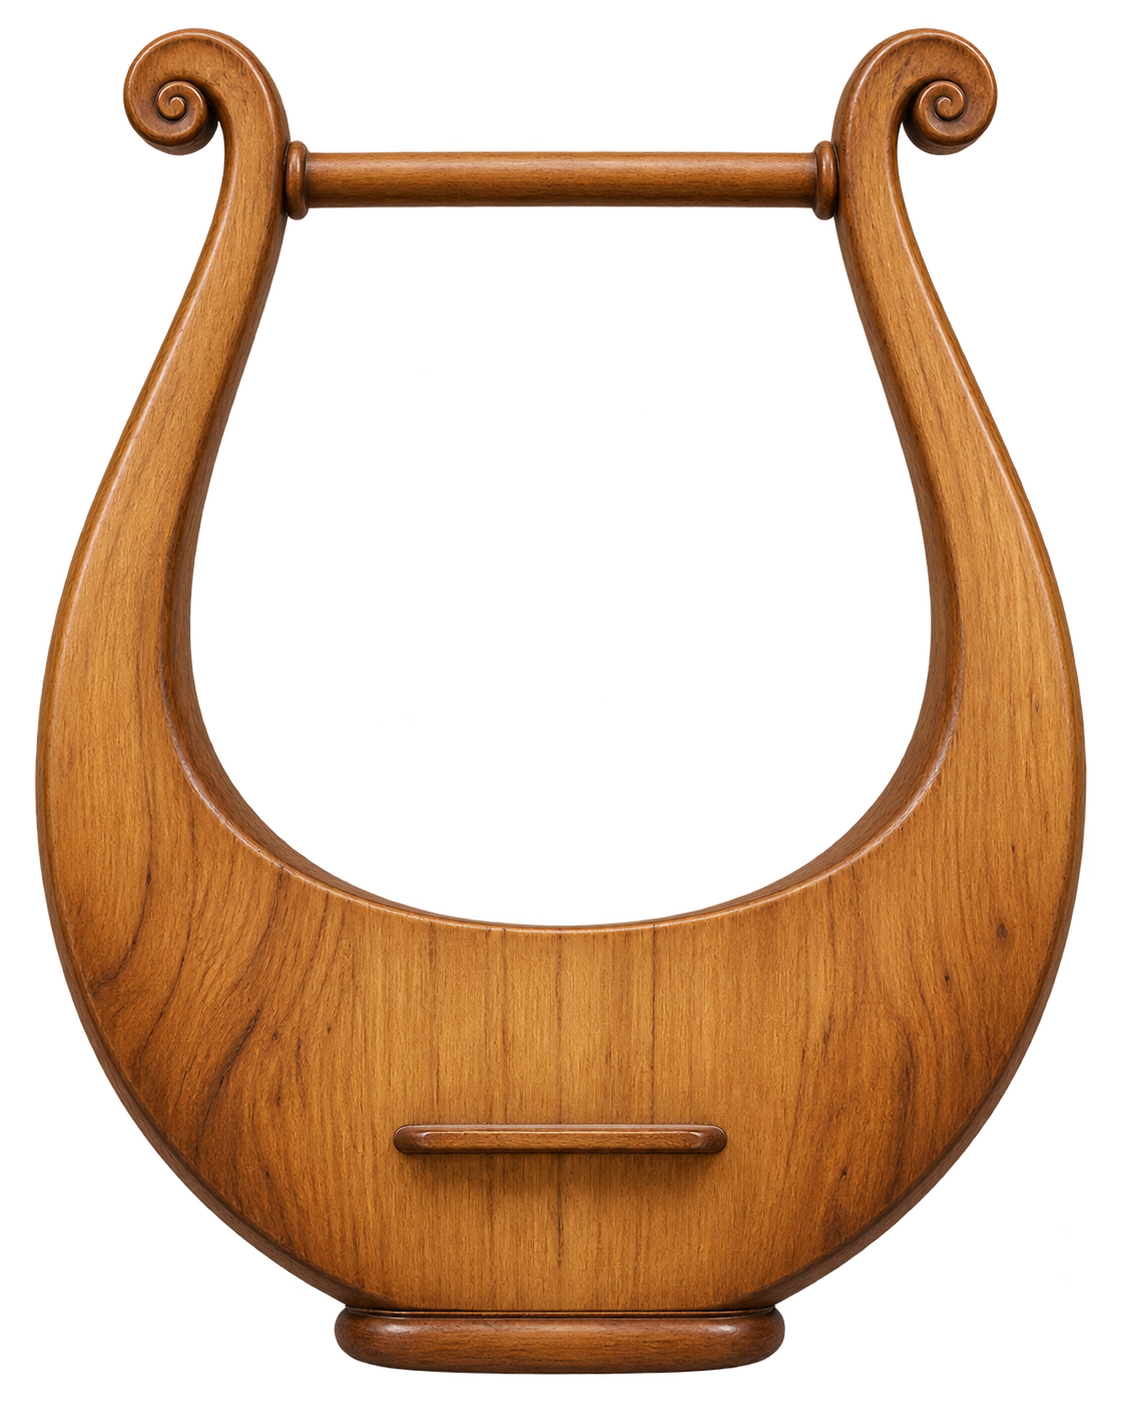
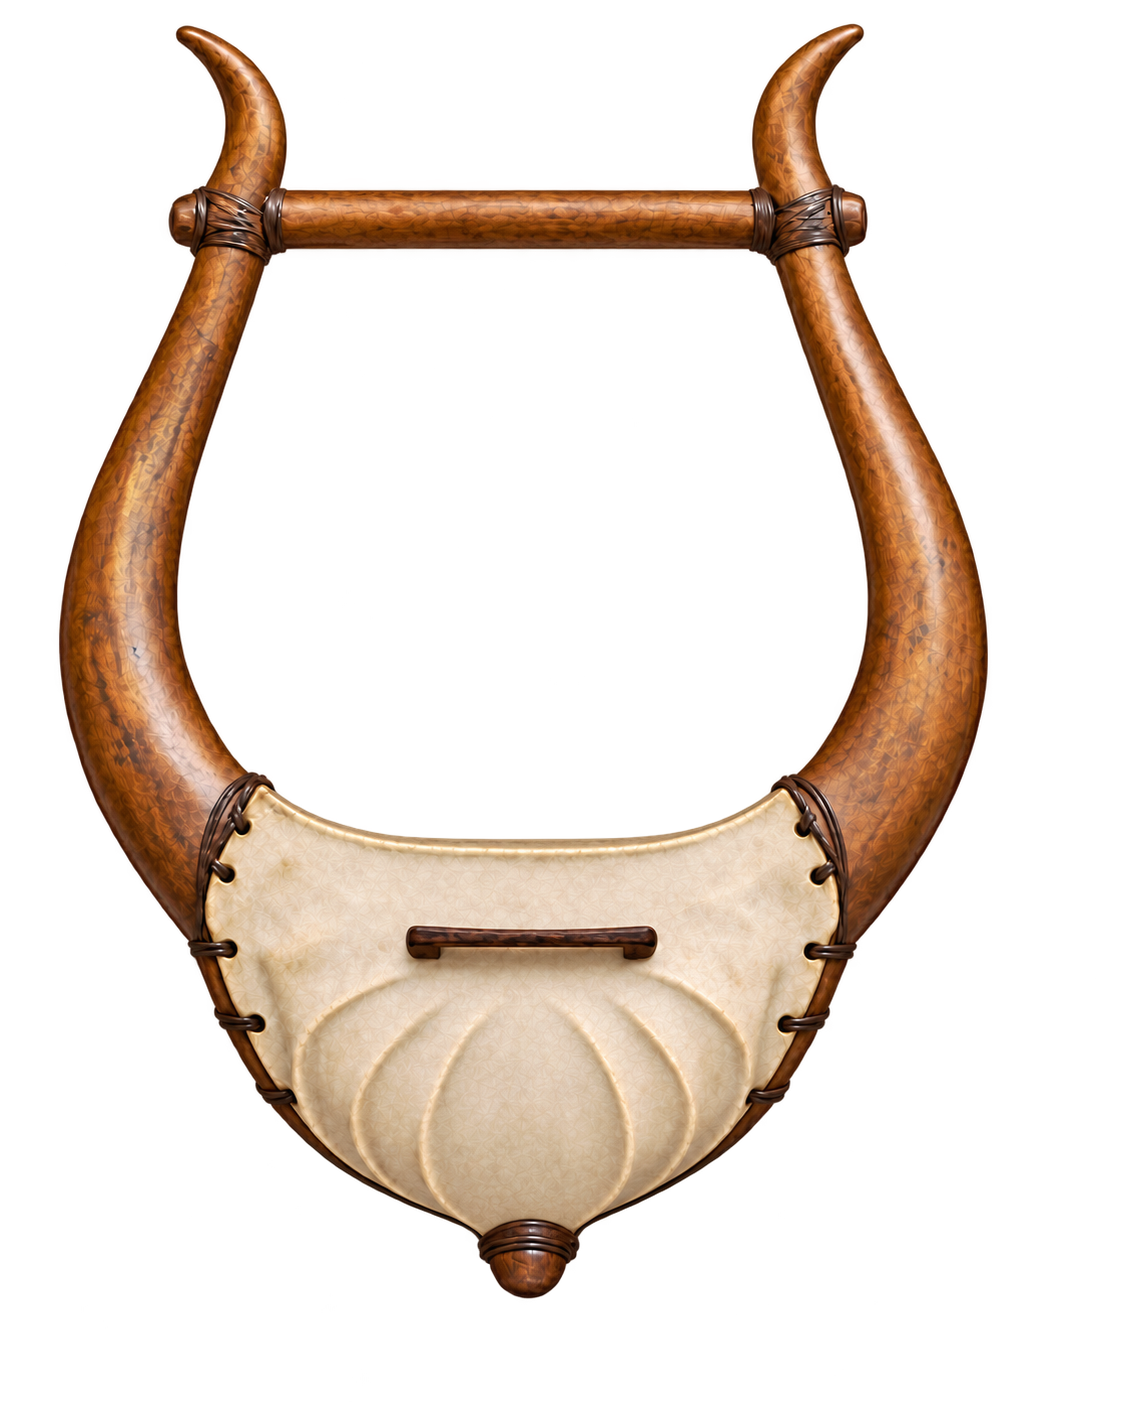
feat: publish Lyre Playground MVP

diff --git a/src/Lyre.tsx b/src/Lyre.tsx
@@ -1,6 +1,6 @@
-import { useEffect, useRef } from 'react';
+import { useEffect, useId, useRef } from 'react';
 import body from './assets/lyre-body.png';
-import { ASSET_WIDTH, ASSET_HEIGHT, STRINGS, STRING_TOP, STRING_BOTTOM, HIT_WIDTH, type StringId } from './instrument';
+import { ASSET_WIDTH, ASSET_HEIGHT, STRINGS, INSTRUMENT_CENTER, stringPath, stringHitArea, type StringId } from './instrument';
 
 type Props = {
   highlighted?: boolean;
@@ -12,8 +12,9 @@ function LyreString({ id, highlighted, revision, onPluck }: {
   id: StringId; highlighted: boolean; revision: number; onPluck: Props['onPluck'];
 }) {
   const path = useRef<SVGPathElement>(null);
+  const pathId = useId();
   const string = STRINGS[id];
-  const rest = `M ${string.x} ${STRING_TOP} Q ${string.x} ${(STRING_TOP + STRING_BOTTOM) / 2} ${string.x} ${STRING_BOTTOM}`;
+  const rest = stringPath(id);
 
   useEffect(() => {
     if (!revision || !path.current) return;
@@ -27,21 +28,21 @@ function LyreString({ id, highlighted, revision, onPluck }: {
     const tick = (now: number) => {
       const t = Math.min((now - start) / 450, 1);
       const displacement = Math.sin(t * Math.PI * 14) * 18 * (1 - t) ** 2;
-      element.setAttribute('d', `M ${string.x} ${STRING_TOP} Q ${string.x + displacement} ${(STRING_TOP + STRING_BOTTOM) / 2} ${string.x} ${STRING_BOTTOM}`);
+      element.setAttribute('d', stringPath(id, displacement));
       if (t < 1) frame = requestAnimationFrame(tick);
       else element.setAttribute('d', rest);
     };
     frame = requestAnimationFrame(tick);
     return () => { cancelAnimationFrame(frame); element.setAttribute('d', rest); };
-  }, [revision, rest, string.x]);
+  }, [revision, rest, id]);
 
   const tone = !highlighted ? 'neutral' : string.highlighted ? 'highlighted' : 'muted';
   return (
     <g className={`lyre-string ${tone}`} data-string-id={id} data-tone={tone}>
-      <path ref={path} className="string-line" d={rest} data-revision={revision} aria-hidden="true" />
-      <rect
-        className="string-target" x={string.x - HIT_WIDTH / 2} y={STRING_TOP}
-        width={HIT_WIDTH} height={STRING_BOTTOM - STRING_TOP}
+      <path id={pathId} ref={path} className="string-line" d={rest} data-revision={revision} aria-hidden="true" />
+      <use href={`#${pathId}`} className="string-core" aria-hidden="true" />
+      <polygon
+        className="string-target" points={stringHitArea(id)}
         role="button" tabIndex={0} aria-label={`String ${id + 1}`}
         onPointerDown={(event) => {
           if (event.pointerType === 'mouse' && event.button !== 0) return;
@@ -63,7 +64,7 @@ function LyreString({ id, highlighted, revision, onPluck }: {
 
 export function Lyre({ highlighted = false, revisions = [], onPluck }: Props) {
   return (
-    <div className="lyre" role="group" aria-label="Seven-string lyre">
+    <div className="lyre" role="group" aria-label="Seven-string lyre" style={{ transform: `translateX(${(ASSET_WIDTH / 2 - INSTRUMENT_CENTER) / ASSET_WIDTH * 100}%)` }}>
       <img className="lyre-body" src={body} width={ASSET_WIDTH} height={ASSET_HEIGHT} alt="" draggable={false} />
       <svg className="lyre-overlay" viewBox={`0 0 ${ASSET_WIDTH} ${ASSET_HEIGHT}`} preserveAspectRatio="xMidYMid meet">
         {STRINGS.map(({ id }) => <LyreString key={id} id={id} highlighted={highlighted} revision={revisions[id] ?? 0} onPluck={onPluck} />)}

diff --git a/src/instrument.ts b/src/instrument.ts
@@ -1,19 +1,51 @@
 export const ASSET_WIDTH = 1122;
 export const ASSET_HEIGHT = 1402;
-export const STRING_TOP = 180;
-export const STRING_BOTTOM = 1138;
-export const HIT_WIDTH = 50;
+// Image A coordinates. Adjust attachment geometry here without changing pitches.
+export const STRING_TOP = 194;
+export const STRING_FREE_TOP = 246;
+export const STRING_BRIDGE = 936;
+export const STRING_BOTTOM = 1240;
+export const INSTRUMENT_CENTER = 526;
+export const TOP_SPACING = 52;
+export const BRIDGE_SPACING = 35;
+export const TAIL_SPACING = 12;
 
 export const STRINGS = [
-  { id: 0, pitch: 'D4', midi: 62, x: 410, highlighted: true },
-  { id: 1, pitch: 'E4', midi: 64, x: 460, highlighted: true },
-  { id: 2, pitch: 'F#4', midi: 66, x: 510, highlighted: true },
-  { id: 3, pitch: 'G4', midi: 67, x: 560, highlighted: false },
-  { id: 4, pitch: 'A4', midi: 69, x: 610, highlighted: true },
-  { id: 5, pitch: 'B4', midi: 71, x: 660, highlighted: true },
-  { id: 6, pitch: 'C#5', midi: 73, x: 710, highlighted: false },
+  { id: 0, pitch: 'D4', midi: 62, highlighted: true },
+  { id: 1, pitch: 'E4', midi: 64, highlighted: true },
+  { id: 2, pitch: 'F#4', midi: 66, highlighted: true },
+  { id: 3, pitch: 'G4', midi: 67, highlighted: false },
+  { id: 4, pitch: 'A4', midi: 69, highlighted: true },
+  { id: 5, pitch: 'B4', midi: 71, highlighted: true },
+  { id: 6, pitch: 'C#5', midi: 73, highlighted: false },
 ] as const;
 
 export type StringId = (typeof STRINGS)[number]['id'];
 export type Pitch = (typeof STRINGS)[number]['pitch'];
 export const frequencyFor = (id: StringId) => 440 * 2 ** ((STRINGS[id].midi - 69) / 12);
+
+export function stringGeometry(id: StringId) {
+  const offset = id - 3;
+  const topX = INSTRUMENT_CENTER + offset * TOP_SPACING;
+  const bridgeX = INSTRUMENT_CENTER + offset * BRIDGE_SPACING;
+  const tailX = INSTRUMENT_CENTER + offset * TAIL_SPACING;
+  // Follow the rounded top of the existing anchor, symmetrically.
+  const tailY = STRING_BOTTOM + Math.abs(offset) * 2;
+  return { topX, bridgeX, tailX, tailY };
+}
+
+export function stringPath(id: StringId, displacement = 0) {
+  const { topX, bridgeX, tailX, tailY } = stringGeometry(id);
+  return `M ${topX} ${STRING_TOP} L ${topX} ${STRING_FREE_TOP} Q ${(topX + bridgeX) / 2 + displacement} ${(STRING_FREE_TOP + STRING_BRIDGE) / 2} ${bridgeX} ${STRING_BRIDGE} L ${tailX} ${tailY}`;
+}
+
+// Fixed, non-overlapping lanes follow the entire string including its afterlength.
+export function stringHitArea(id: StringId) {
+  const { topX, bridgeX, tailX } = stringGeometry(id);
+  return [
+    [topX - TOP_SPACING / 2, STRING_TOP], [topX + TOP_SPACING / 2, STRING_TOP],
+    [topX + TOP_SPACING / 2, STRING_FREE_TOP], [bridgeX + BRIDGE_SPACING / 2, STRING_BRIDGE],
+    [tailX + TAIL_SPACING / 2, STRING_BOTTOM + 10], [tailX - TAIL_SPACING / 2, STRING_BOTTOM + 10],
+    [bridgeX - BRIDGE_SPACING / 2, STRING_BRIDGE], [topX - TOP_SPACING / 2, STRING_FREE_TOP],
+  ].map(point => point.join(',')).join(' ');
+}

diff --git a/tests/playground.spec.ts b/tests/playground.spec.ts
@@ -99,7 +99,7 @@ test('asset is unmodified, overlay shares its bounds, strings attach and hit are
   const asset = await page.locator('.lyre-body').getAttribute('src');
   const response = await page.request.get(asset!);
   const hash = (data: Buffer) => createHash('sha256').update(data).digest('hex');
[2 lines of base64/hex data omitted]
   expect(hash(await response.body())).toBe(hash(readFileSync('src/assets/lyre-body.png')));
   for (const width of [320, 390, 768, 1280]) {
     await page.setViewportSize({ width, height: 900 });
@@ -115,14 +115,28 @@ test('asset is unmodified, overlay shares its bounds, strings attach and hit are
     expect(feedback!.y).toBeGreaterThanOrEqual(img!.y + img!.height);
   }
   await expect(page.locator('.lyre-overlay path')).toHaveCount(7);
-  await expect(page.locator('.lyre-overlay rect')).toHaveCount(7);
+  await expect(page.locator('.lyre-overlay polygon')).toHaveCount(7);
+  const attachments = await page.locator('.lyre-overlay path').evaluateAll(paths => paths.map(path => {
+    const points = path.getAttribute('d')!.match(/-?\d+(?:\.\d+)?/g)!.map(Number);
+    return { top: points[0], bridge: points[6], tail: points[8] };
+  }));
+  // Image A's existing bridge spans approximately x=407–656; keep every contact inset.
+  for (const attachment of attachments) {
+    expect(attachment.bridge).toBeGreaterThan(407);
+    expect(attachment.bridge).toBeLessThan(656);
+    expect(attachment.tail).toBeGreaterThanOrEqual(490);
+    expect(attachment.tail).toBeLessThanOrEqual(562);
+  }
+  for (let index = 1; index < attachments.length; index++) {
+    expect(attachments[index].top - attachments[index - 1].top).toBe(52);
+  }
   const hit = page.getByRole('button', { name: 'String 1', exact: true });
   const before = await hit.boundingBox();
   await pluck(page, [0]);
   await expect(page.locator('[data-string-id="0"] path')).toHaveAttribute('data-revision', '1');
   expect(await hit.boundingBox()).toEqual(before);
   await expect(page.locator('[data-string-id="1"] path')).toHaveAttribute('data-revision', '0');
-  await expect(page.locator('[data-string-id="0"] path')).toHaveAttribute('d', 'M 410 180 Q 410 659 410 1138');
+  await expect(page.locator('[data-string-id="0"] path')).toHaveAttribute('d', 'M 370 194 L 370 246 Q 395.5 591 421 936 L 490 1246');
   await pluck(page, [0]);
   await expect(page.locator('[data-string-id="0"] path')).toHaveAttribute('data-revision', '2');
   expect(await hit.boundingBox()).toEqual(before);

diff --git a/src/styles.css b/src/styles.css
@@ -6,7 +6,7 @@
   text-rendering: optimizeLegibility;
   -webkit-font-smoothing: antialiased;
   --secondary: #736d63;
-  --string: #b8aa93;
+  --string: #9b7442;
   --highlight: #d3a65a;
 }
 * { box-sizing: border-box; }
@@ -20,12 +20,15 @@ p { color: var(--secondary); font-size: 16px; line-height: 1.65; margin: 0; }
 .lyre { position: relative; width: min(460px, 88vw); aspect-ratio: 1122 / 1402; flex-shrink: 0; user-select: none; -webkit-user-select: none; }
 .lyre-body { display: block; width: 100%; height: auto; pointer-events: none; }
 .lyre-overlay { position: absolute; inset: 0; width: 100%; height: 100%; overflow: visible; }
-.string-line { fill: none; stroke: var(--string); stroke-width: 1.5px; vector-effect: non-scaling-stroke; pointer-events: none; transition: stroke 220ms, opacity 220ms; }
-.highlighted .string-line { stroke: var(--highlight); opacity: 1; }
-.muted .string-line { opacity: 0.46; }
+.lyre-string { color: var(--string); transition: opacity 220ms; }
+.string-line, .string-core { fill: none; stroke-linecap: round; stroke-linejoin: round; vector-effect: non-scaling-stroke; pointer-events: none; transition: stroke 220ms, opacity 220ms; }
+.string-line { stroke: currentColor; stroke-width: var(--strand-width, 2px); }
+.string-core { color: var(--strand-core, #ecd0a0); --strand-width: 0.85px; }
+.highlighted { color: #b57c2c; --strand-core: #ffe0a1; }
+.muted { opacity: 0.46; }
 .string-target { fill: transparent; cursor: pointer; outline: none; touch-action: none; }
-.lyre-string:has(.string-target:focus-visible) .string-line { stroke: #80500d; stroke-width: 3px; opacity: 1; }
-@media (hover: hover) { .lyre-string:hover .string-line { stroke: #c69950; opacity: 1; } }
+.lyre-string:has(.string-target:focus-visible) { color: #80500d; --strand-width: 3px; opacity: 1; }
+@media (hover: hover) { .lyre-string:hover { color: #c69950; opacity: 1; } }
 .feedback { width: 100%; max-width: 540px; min-height: 118px; text-align: center; margin-top: 24px; }
 .feedback .keep-playing { margin-top: 8px; color: #2c2924; }
 .cta-area { margin-top: 22px; }

diff --git a/README.md b/README.md
@@ -1,79 +1,78 @@
-# Lyre Playground MVP
+# Lyre Playground
 
-A single musical experience: play seven strings, explore five, notice, discover, and voluntarily ask for another sound. The project has no application backend, accounts, remote analytics, or second Discovery.
+Lyre Playground explores a different way of learning music:
 
-## Run
+**Play → Notice → Discover**
 
-Requires Node 22.12+ and npm.
+Instead of teaching theory first, it lets you interact with a seven-string lyre and discover musical ideas through sound before naming them.
 
-```sh
-npm ci
+## Current MVP
+
+The current prototype contains one Discovery:
+
+**Discover a pentatonic scale through play.**
+
+Play freely → explore five highlighted strings → notice the sound → discover the pentatonic scale → choose whether to discover another sound.
+
+All seven strings remain playable throughout. Choosing **Discover another sound** ends this prototype with “More discoveries coming soon.”
+
+## Demo
+
+Production deployment is pending Vercel account authorization. The live demo URL will be added after deployment is verified.
+
+## Tech Stack
+
+- React
+- TypeScript
+- Vite
+- Web Audio API
+- SVG
+- CSS
+
+The supplied stringless lyre image is bundled locally, with seven interactive SVG strings above it. Audio is synthesized in the browser. Events are stored locally in the browser; no backend or external analytics service is used.
+
+## Run Locally
+
+Requires Node.js 22.12+ and npm.
+
+```bash
+npm install
 npm run dev
 ```
 
-Vite prints the local URL. To serve the production build: `npm run build` then `npm run preview`.
+For a clean install using the committed lockfile, use `npm ci`.
 
-## Verify
+## Production Build
 
-```sh
-npm test
-npx playwright install chromium
-npm run test:e2e
+```bash
 npm run build
 ```
 
-Vitest covers transition boundaries, unique-target counters, milestone guards, storage failure, and synthesized signal pitch/decay at 44.1/48kHz. Playwright covers the full desktop and emulated-touch flow, negative thresholds, keyboard activation, fixed responsive overlay geometry, unchanged asset checksum, audio failure, in-memory logging, and real Web Audio voice scheduling/overlap. Emulation does not replace physical-device listening and touch validation.
+The build runs TypeScript checking and creates the static site in `dist/`.
 
-## Approved visual asset
+Preview the build locally:
 
-`src/assets/lyre-body.png` is an unmodified copy of the supplied **ChatGPT Image Sep 10, 2026, 03_35_59 PM.png** (1122 × 1402, RGBA).
-
[1 lines of base64/hex data omitted]
-
-The responsive image preserves its natural aspect ratio. The SVG overlay uses `viewBox="0 0 1122 1402"` and the same bounds. It contains exactly seven visible string paths and seven invisible rectangular interaction targets, with no instrument-body or decorative geometry. Endpoints attach at y=180 and y=1138; x positions are 410–710 in 50-unit steps. Vibration changes only the path midpoint; endpoints and hit targets remain fixed.
-
-The bridge is narrow. Distinct hit lanes are about 20.5 CSS pixels wide at the 460px desktop image size, and 12.5px at a 320px viewport (88vw image). They span almost the full playable string length. Achieving seven separate ~40px widths would require changing this geometry or the prescribed mobile image size; neither is done. Physical touch usability is an explicit acceptance item.
-
-## State and copy ownership
-
-- `src/discovery.ts`: seven states, thresholds and pure transitions.
-- `src/copy.ts`: exact PRD copy.
-- `src/usePlayground.ts`: ordered accepted plucks, React state, audio status and Notice timer.
-- `src/instrument.ts`: pitches, target membership, image-space string coordinates.
-- `src/audio.ts`: reusable synthesized pluck buffers and independent voices.
-- `src/events.ts`: session and browser-local event records.
-- `IMPLEMENTATION_PLAN.md`: complete updated plan, assumptions and AC-01–AC-12 mapping.
-
-The first pluck enters FREE_PLAY; the third total enters FIVE_NOTE_PLAY. The next five highlighted plucks must use at least three unique target strings. The next three highlighted plucks reveal. Two additional plucks on any strings show the CTA. Only activating the CTA records the Goal and enters END. A pluck counts toward its starting state only. The Notice delay is auxiliary copy only, not a time gate.
-
-## Local event inspection
-
-In the browser developer console:
-
-```js
-window.lyreDebug.events()
-window.lyreDebug.storage()
+```bash
+npm run preview
 ```
 
-`events()` returns a copy, not mutable live state. It cannot play strings or advance Discovery. Each page load has a fresh session ID. Records persist under `lyre-playground:events:<sessionId>` when localStorage is available; otherwise they remain in memory for that page load. Normal pluck writes are deferred; milestones/CTA and page hiding flush immediately. Reload starts a fresh Discovery and does not delete previous stored sessions.
+Existing checks:
 
-Every record includes session ID, sequence, timestamp (epoch milliseconds) and discovery state. A `string_played` includes string ID and pitch and records the state before its transition. Required milestone events occur once per session. Audio failures do not produce successful pluck records or advance the funnel.
+```bash
+npm test
+npx playwright install chromium
+npm run test:e2e
+```
 
-Continue Intent Rate is sessions with `discover_another_clicked` divided by sessions with `discovery_completed`. Collect non-developer test-session records manually for the first ≥20 real sessions. No collection service or metrics UI is included; developer test sessions are not evidence of product success.
+## MVP Scope
 
-## Manual acceptance still required
+This prototype currently validates one question:
 
-- Listen on physical iOS Safari and Android Chrome: first-touch unlock, warm plucked timbre, low perceived latency, natural decay, repeated-note overlap, and resuming after background interruption.
-- Check that visible vibration feels tied to the sound; check reduced-motion feedback.
-- Complete the flow using fingers on small phones, especially adjacent strings with the approved narrow bridge.
-- Check desktop/mobile visual fidelity and enlarged text: Prompt → Lyre → Feedback/CTA, no clipped instrument or controls, with vertical scrolling allowed on short screens.
+> Can someone discover a musical concept by playing before being taught it?
 
-Shortest manual path (string numbers left to right): **1,2,3 → 1,2,3,1,2 → 1,5,6 → 4,7 → Discover another sound**. End displays “More discoveries coming soon.” / “You found your first sound.” All seven strings remain playable.
+It includes one Discovery, with no account system, second Discovery, or course progression.
 
-Implementation checks completed September 10, 2026: 13 logic/event/audio tests passed; all 14 browser cases passed across desktop and emulated touch (the two added overlap cases and updated checksum cases were run as a focused follow-up). TypeScript and production build passed. The supplied and repository asset checksums match. The in-app browser was also used to complete the funnel and inspect image/string attachment; mobile image and overlay bounds matched exactly at a 360px viewport. Physical-phone checks above remain outstanding.
+## Status
 
-## Scope and deployment
-
-Static Vite output goes to `dist/`. The optional `.openai/hosting.json` identifies the private Sites hosting target; it adds no application backend or analytics. No WebMCP flow controls are added: the product explicitly requires user instrument interaction and a voluntary CTA, and excludes additional generic systems.
-
-Do not add a second Discovery, courses, scores, saved progress, accounts, MIDI, microphone access, commerce, extra theory, navigation, decorative SVG body geometry, or external analytics.
+Experimental MVP.
+Currently testing the Play → Notice → Discover interaction model.

diff --git a/IMPLEMENTATION_PLAN.md b/IMPLEMENTATION_PLAN.md
@@ -1,6 +1,6 @@
 # Lyre Playground MVP — implementation plan
 
-Updated September 10, 2026, before implementation. The user's approved body image replaces the previous SVG-body plan. All Discovery, audio, event and acceptance requirements remain unchanged. The PRD is product reference; the user's latest request controls this asset decision.
+Updated September 11, 2026 for the visual replacement: Image A (11_24_53 AM) is the immutable stringless body; Image B (11_25_02 AM) is the finished-string style reference. All Discovery, audio, event and acceptance requirements remain unchanged. The PRD is product reference; the user's latest request controls the asset and tapered-string geometry.
 
 ## 1. Current Repository Assessment
 
@@ -17,8 +17,8 @@ Greenfield Git repository, no commits or application files. Use React, TypeScrip
 - One page load is one session. discovery_started means entry to FIVE_NOTE_PLAY; exploration_completed means entry to NOTICE; discovery_completed means entry to DISCOVER.
 - Preserve the required sentence “There is no wrong note.” despite AC-08's ban on evaluative Wrong feedback.
 - Count successful audio scheduling on a running context, not failed audio attempts. Hardware audibility cannot be detected.
-- The approved 1122 × 1402 transparent PNG is immutable. Seven vertical strings attach at y=180 on the crossbar and y=1138 on the existing bridge, at x=410,460,510,560,610,660,710. No body geometry is added.
-- The image's narrow bridge constrains vertical string spacing. Use tall, distinct 50-asset-unit hit lanes; the recommended ~40 CSS-pixel width cannot be achieved on small phones without overlapping targets or changing the approved geometry. This remains a documented manual touch-usability risk, not a reason to distort the image.
+- Image A's approved 1122 × 1402 transparent PNG is immutable. Seven strings start across the crossbar at x=370–682/y=194, pass across the bridge at x=421–631/y=936, and converge at x=490–562/y=1240–1246 on the existing bottom anchor. No body geometry is added.
+- Stationary polygon hit lanes taper from 52 to 35 to 12 asset units along the string geometry. The recommended ~40 CSS-pixel width cannot be achieved on small phones without overlapping targets or changing the approved geometry. This remains a documented manual touch-usability risk, not a reason to distort the image.
 
 ## 3. Architecture Decision
 
@@ -77,9 +77,9 @@ Use native Web Audio synthesis: cached, locally generated Karplus–Strong-style
 
 Use the approved image directly; do not crop, stretch, filter, redraw or approximate it. A single responsive wrapper has aspect-ratio 1122 / 1402. The img fills its width with auto height; the absolute SVG occupies the same bounds with viewBox="0 0 1122 1402" and preserveAspectRatio="xMidYMid meet". Both scale together. Desktop width approximately 460px; mobile approximately 88vw.
 
-Seven straight strings run from the visible crossbar at y=180 to the existing lower bridge at y=1138, using the x coordinates in instrument.ts. Visible string paths bend around a vibrating midpoint while endpoints remain fixed. Invisible hit rectangles never animate and remain siblings of visible paths. No decorative overlay geometry is permitted.
+Seven coded strings follow Image B's widening crossbar spacing, narrower bridge span and centered tail convergence, using the attachment coordinates in instrument.ts. Only the long playable span bends during vibration; crossbar, bridge and tail attachments remain fixed. Stationary polygon hit lanes follow the tapered rest geometry. A pale inner strand with a restrained brown-gold edge evokes Image B's natural strings. The image and overlay shift together by approximately 3.12% to center the padded asset's actual instrument axis. No decorative body geometry is permitted.
 
-Keep background #F3EFE6, primary #2C2924, secondary #736D63, strings #B8AA93, highlights #D3A65A. Dim other strings but keep them playable. Warm body color comes from the supplied image, not CSS recoloring. Georgia prompt at 32–40px desktop / 26–32px mobile, supporting text 16–18px. Only 450ms damped vibration and subtle prompt/highlight/CTA fades. Reduced motion uses a restrained string pulse.
+Keep background #F3EFE6, primary #2C2924 and secondary #736D63. Strings use pale #ECD0A0 cores and #9B7442 edges; highlights use warmer #FFE0A1 cores and #B57C2C edges. Dim other strings but keep them playable. Body materials come from Image A, not CSS recoloring. Georgia prompt at 32–40px desktop / 26–32px mobile, supporting text 16–18px. Only 450ms damped vibration and subtle prompt/highlight/CTA fades. Reduced motion uses a restrained string pulse.
 
 Quiet wordmark → Prompt → largest visual object (lyre) → Feedback/CTA. Allow vertical scrolling on short screens. Mouse/touch pointerdown once per pluck, keyboard Enter/Space, neutral String 1–7 accessible names. No drag strumming, visible pitch labels, progress UI or body decoration.
 
